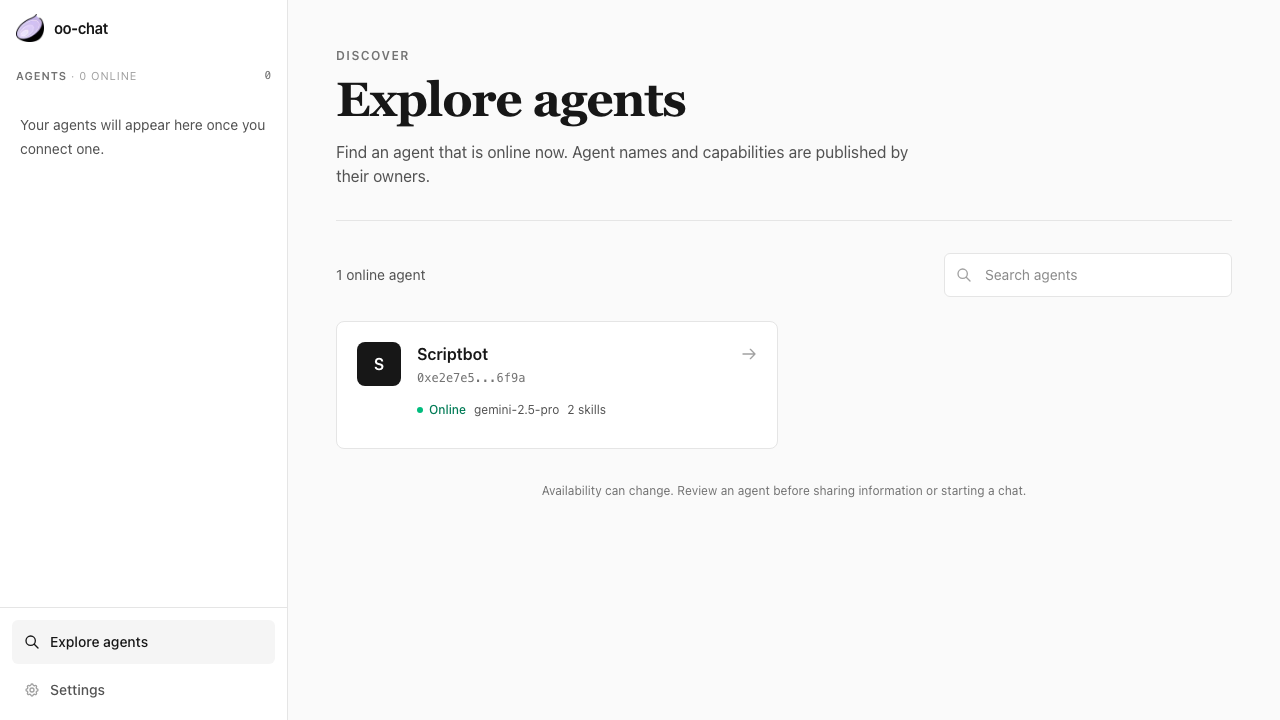
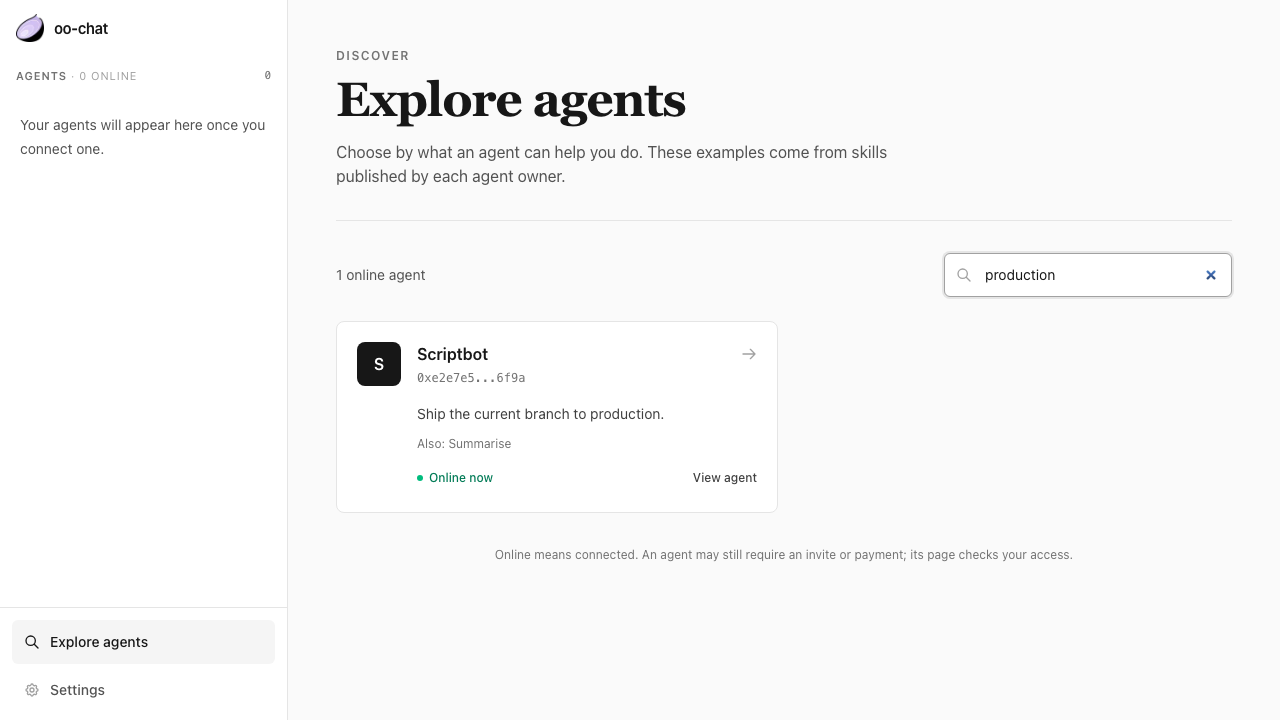
Show real agent tasks in discovery and landing

diff --git a/app/[address]/page.tsx b/app/[address]/page.tsx
@@ -12,7 +12,8 @@ import { useChatStore } from '@/store/chat-store'
 import { useIdentity } from '@/hooks/use-identity'
 import { useAgentInfo, shortAddress, agentInitial, isAgentAddress } from '@/hooks/use-agent-info'
 import { QrShare } from '@/components/qr-share'
-import { bestOffers, UNIVERSAL_OPENER, acceptsAttachments } from '@/components/chat/skill-offers'
+import { UNIVERSAL_OPENER, acceptsAttachments } from '@/components/chat/skill-offers'
+import { publicCapabilities } from '@/lib/agent-capabilities'
 import type { FileAttachment } from '@/components/chat/types'
 import { AgentAddress, TopUp } from '@/components/agent-address'
 
@@ -236,6 +237,7 @@ export default function AgentLandingPage() {
   const label = agentInfo?.name || shortAddress(address)
   const isOnline = agentInfo?.online
   const skills = agentInfo?.skills || []
+  const capabilities = publicCapabilities(skills)
   const tools = useMemo(() => agentInfo?.tools || [], [agentInfo?.tools])
 
   // Read the three fields out first. Reaching through `agentInfo` inside the memo
@@ -292,13 +294,13 @@ export default function AgentLandingPage() {
               and tools list is enough to trigger it, and what disappears is the avatar,
               the agent name and the online pill — the identity of the agent you are
               about to talk to. Safe alignment falls back to flex-start on overflow. */}
-          <div className="flex min-h-full flex-col justify-center-safe py-6 sm:py-10">
+          <div className="flex min-h-full flex-col justify-center-safe py-4 sm:py-10">
           <div className="mx-auto w-full max-w-xl px-5">
 
             {/* Hero */}
-            <div className="text-center mb-7">
+            <div className="mb-5 text-center sm:mb-7">
               {/* Online agents breathe — the live connection is the product */}
-              <div className={`reveal w-16 h-16 rounded-2xl bg-neutral-900 flex items-center justify-center mx-auto mb-4 shadow-sm ${isOnline ? 'breathe-live' : ''}`}>
+              <div className={`reveal mx-auto mb-3 flex h-12 w-12 items-center justify-center rounded-xl bg-neutral-900 shadow-sm sm:mb-4 sm:h-16 sm:w-16 sm:rounded-2xl ${isOnline ? 'breathe-live' : ''}`}>
                 <span className="text-white font-semibold text-2xl">
                   {agentInitial(label, address)}
                 </span>
@@ -326,7 +328,7 @@ export default function AgentLandingPage() {
               </div>
 
               {metaLine && (
-                <p className="font-mono text-xs leading-5 text-neutral-600">{metaLine}</p>
+                <p className="hidden font-mono text-xs leading-5 text-neutral-600 sm:block">{metaLine}</p>
               )}
 
               {isOnline === false && (
@@ -370,26 +372,44 @@ export default function AgentLandingPage() {
               </form>
             )}
 
-            {/* The handshake: a few things you can ask right now, in plain words */}
-            {isOnline !== false && !isClaudeStation && (
-              <div className="reveal flex flex-wrap justify-center gap-2" style={{ '--reveal-delay': '180ms' } as React.CSSProperties}>
-                {/* The universal opener leads, filled — agent-specific offers follow */}
-                <button
-                  onClick={() => begin(UNIVERSAL_OPENER)}
-                  className="rounded-full bg-neutral-900 px-4 py-2 text-sm font-medium text-white shadow-sm transition-all hover:-translate-y-0.5 hover:bg-neutral-800 active:translate-y-0"
-                >
-                  {UNIVERSAL_OPENER}
-                </button>
-                {bestOffers(skills).map(({ skill, offer }) => (
-                    <button
-                      key={skill.name}
-                      onClick={() => begin('/' + skill.name)}
-                      className="rounded-full border border-neutral-200 bg-white px-4 py-2 text-sm text-neutral-700 shadow-xs transition-all hover:-translate-y-0.5 hover:border-neutral-300 hover:shadow-sm active:translate-y-0"
-                    >
-                      {offer}
+            {!isClaudeStation && (
+              <section className="reveal mt-5 sm:mt-7" style={{ '--reveal-delay': '180ms' } as React.CSSProperties} aria-labelledby="agent-capabilities-heading">
+                <div className="mb-3 flex items-center justify-between gap-3">
+                  <h2 id="agent-capabilities-heading" className="text-base font-semibold text-neutral-900">What this agent can help with</h2>
+                  {capabilities.length > 0 && <span className="shrink-0 text-xs text-neutral-500">Owner-published</span>}
+                </div>
+                {capabilities.length > 0 ? (
+                  <div className="space-y-2">
+                    {capabilities.map(capability => (
+                      <button
+                        key={capability.name}
+                        type="button"
+                        disabled={isOnline === false}
+                        onClick={() => begin('/' + capability.name)}
+                        className="group flex min-h-20 w-full flex-col gap-1 rounded-xl border border-neutral-200 bg-white px-4 py-3 text-left transition-all hover:border-neutral-300 hover:shadow-sm focus-visible:outline-none focus-visible:ring-2 focus-visible:ring-neutral-500 disabled:cursor-not-allowed disabled:opacity-60"
+                      >
+                        <span className="flex w-full items-center justify-between gap-3">
+                          <span className="text-sm font-semibold text-neutral-900">{capability.title}</span>
+                          <span className="shrink-0 text-xs font-medium text-neutral-500 group-hover:text-neutral-900">Start →</span>
+                        </span>
+                        <span className="text-sm leading-5 text-neutral-600">{capability.summary}</span>
+                      </button>
+                    ))}
+                  </div>
+                ) : (
+                  <p className="rounded-xl border border-neutral-200 bg-white px-4 py-4 text-sm leading-6 text-neutral-600">
+                    This agent has not published any task examples yet. You can ask what it does before sharing details.
+                  </p>
+                )}
+                {isOnline !== false && (
+                  <div className="mt-4 flex items-center justify-center gap-3 text-sm text-neutral-600">
+                    <span>Not sure where to start?</span>
+                    <button onClick={() => begin(UNIVERSAL_OPENER)} className="min-h-11 font-medium text-neutral-900 underline decoration-neutral-300 underline-offset-4 hover:decoration-neutral-900">
+                      {UNIVERSAL_OPENER}
                     </button>
-                  ))}
-              </div>
+                  </div>
+                )}
+              </section>
             )}
 
 

diff --git a/app/explore/page.tsx b/app/explore/page.tsx
@@ -5,12 +5,14 @@ import Link from 'next/link'
 import { HiOutlineArrowRight, HiOutlineRefresh, HiOutlineSearch } from 'react-icons/hi'
 import { ChatLayout } from '@/components/chat-layout'
 import { agentInitial, shortAddress } from '@/hooks/use-agent-info'
+import type { PublicCapability } from '@/lib/agent-capabilities'
 
 type ListedAgent = {
   address: string
   name: string | null
   model: string | null
   skillCount: number
+  capabilities: PublicCapability[]
 }
 
 async function fetchOnlineAgents(): Promise<ListedAgent[]> {
@@ -54,6 +56,10 @@ export default function ExplorePage() {
       agent.address.toLocaleLowerCase().includes(term)
       || (agent.name || '').toLocaleLowerCase().includes(term)
       || (agent.model || '').toLocaleLowerCase().includes(term)
+      || agent.capabilities.some(capability =>
+        capability.title.toLocaleLowerCase().includes(term)
+        || capability.summary.toLocaleLowerCase().includes(term)
+      )
     )
   }, [agents, query])
 
@@ -65,7 +71,7 @@ export default function ExplorePage() {
             <div className="mb-3 text-xs font-semibold uppercase tracking-[0.12em] text-neutral-500">Discover</div>
             <h1 className="font-serif text-4xl font-semibold tracking-tight text-neutral-900 sm:text-5xl">Explore agents</h1>
             <p className="mt-4 max-w-xl text-sm leading-6 text-neutral-600 sm:text-base">
-              Find an agent that is online now. Agent names and capabilities are published by their owners.
+              Choose by what an agent can help you do. These examples come from skills published by each agent owner.
             </p>
           </div>
 
@@ -80,7 +86,7 @@ export default function ExplorePage() {
                   type="search"
                   value={query}
                   onChange={event => setQuery(event.target.value)}
-                  placeholder="Search agents"
+                  placeholder="Search tasks or agents"
                   className="min-h-11 w-full rounded-lg border border-neutral-200 bg-white pl-10 pr-3 text-sm text-neutral-900 outline-none focus:border-neutral-400 focus:ring-2 focus:ring-neutral-200"
                 />
               </div>
@@ -112,7 +118,7 @@ export default function ExplorePage() {
                   <Link
                     key={agent.address}
                     href={`/${agent.address}`}
-                    className="group flex min-h-32 gap-4 rounded-xl border border-neutral-200 bg-white p-5 transition-all hover:-translate-y-0.5 hover:border-neutral-300 hover:shadow-md focus-visible:outline-none focus-visible:ring-2 focus-visible:ring-neutral-500"
+                    className="group flex min-h-48 gap-4 rounded-xl border border-neutral-200 bg-white p-5 transition-all hover:-translate-y-0.5 hover:border-neutral-300 hover:shadow-md focus-visible:outline-none focus-visible:ring-2 focus-visible:ring-neutral-500"
                   >
                     <span className="flex h-11 w-11 shrink-0 items-center justify-center rounded-xl bg-neutral-900 text-base font-semibold text-white">{agentInitial(label, agent.address)}</span>
                     <span className="min-w-0 flex-1">
@@ -121,10 +127,15 @@ export default function ExplorePage() {
                         <HiOutlineArrowRight aria-hidden="true" className="mt-1 h-4 w-4 shrink-0 text-neutral-400 transition-transform group-hover:translate-x-1 group-hover:text-neutral-900" />
                       </span>
                       <span className="mt-1 block font-mono text-xs text-neutral-500">{shortAddress(agent.address)}</span>
-                      <span className="mt-4 flex flex-wrap items-center gap-2 text-xs text-neutral-600">
-                        <span className="inline-flex items-center gap-1.5 font-medium text-emerald-700"><span aria-hidden="true" className="h-1.5 w-1.5 rounded-full bg-emerald-500" />Online</span>
-                        {agent.model && <span className="truncate">{agent.model}</span>}
-                        {agent.skillCount > 0 && <span>{agent.skillCount} {agent.skillCount === 1 ? 'skill' : 'skills'}</span>}
+                      <span className="mt-4 block text-sm leading-6 text-neutral-700">
+                        {agent.capabilities[0]?.summary || 'No public capability description yet. Open this agent to ask what it can do.'}
+                      </span>
+                      {agent.capabilities[1] && (
+                        <span className="mt-2 block text-xs leading-5 text-neutral-500">Also: {agent.capabilities[1].title}</span>
+                      )}
+                      <span className="mt-4 flex items-center justify-between gap-3 text-xs">
+                        <span className="inline-flex items-center gap-1.5 font-medium text-emerald-700"><span aria-hidden="true" className="h-1.5 w-1.5 rounded-full bg-emerald-500" />Online now</span>
+                        <span className="font-medium text-neutral-700 group-hover:text-neutral-900">View agent</span>
                       </span>
                     </span>
                   </Link>
@@ -132,7 +143,7 @@ export default function ExplorePage() {
               })}
             </div>
           )}
-          <p className="mt-8 text-center text-xs leading-5 text-neutral-500">Availability can change. Review an agent before sharing information or starting a chat.</p>
+          <p className="mt-8 text-center text-xs leading-5 text-neutral-500">Online means connected. An agent may still require an invite or payment; its page checks your access.</p>
         </div>
       </main>
     </ChatLayout>

diff --git a/app/api/agents/online/route.ts b/app/api/agents/online/route.ts
@@ -1,4 +1,5 @@
 import { NextResponse } from 'next/server'
+import { publicCapabilities } from '../../../../lib/agent-capabilities'
 
 const API_URL = process.env.NEXT_PUBLIC_OPENONION_API_URL || 'https://oo.openonion.ai'
 
@@ -15,8 +16,8 @@ export async function GET() {
       throw new Error('Invalid directory response')
     }
 
-    // The relay also returns endpoints and raw tool/skill descriptions. Explore
-    // only needs a small public display profile, so do not pass those through.
+    // The relay also returns endpoints and the full raw tool/skill inventory.
+    // Project a small set of described, user-facing capabilities for discovery.
     const agents = data.agents.flatMap((entry: unknown) => {
       if (!entry || typeof entry !== 'object' || !('address' in entry)) return []
       const item = entry as { address: unknown; profile?: unknown }
@@ -32,8 +33,16 @@ export async function GET() {
         ? profile.model.trim().slice(0, 60)
         : null
       const skillCount = Array.isArray(profile.skills) ? profile.skills.length : 0
-      return [{ address: item.address, name, model, skillCount }]
+      const capabilities = publicCapabilities(profile.skills, 2)
+      return [{ address: item.address, name, model, skillCount, capabilities }]
     })
+
+    // A complete public profile gives a visitor a real reason to choose an agent.
+    // Keep undescribed agents reachable, but place them after described ones.
+    agents.sort((a, b) =>
+      Number(b.capabilities.length > 0) - Number(a.capabilities.length > 0)
+      || (a.name || a.address).localeCompare(b.name || b.address)
+    )
 
     return NextResponse.json({ agents }, { headers: { 'Cache-Control': 'no-store' } })
   } catch {

diff --git a/e2e/chat.spec.ts b/e2e/chat.spec.ts
@@ -30,6 +30,16 @@ async function landing(page: Page, scenario: Parameters<typeof mockAgent>[1] = '
 }
 
 test.describe('agent landing page', () => {
+  test('shows published work before a visitor starts a task', async ({ page }) => {
+    await landing(page)
+    const main = page.getByRole('main')
+    await expect(main.getByRole('heading', { name: 'What this agent can help with' })).toBeVisible()
+    await expect(main.getByText('Ship the current branch to production')).toBeVisible()
+    await main.getByRole('button', { name: /Deploy.*Start.*Ship the current branch to production/ }).click()
+    await expect(page).toHaveURL(new RegExp(`${AGENT_ADDRESS}/.+`))
+    await expect(page.getByText('You said: /deploy')).toBeVisible({ timeout: 15_000 })
+  })
+
   test('shows who the agent is, its address, and how to pay it', async ({ page }) => {
     await landing(page)
 
@@ -161,6 +171,15 @@ test.describe('a full exchange', () => {
 
 test.describe('phone', () => {
   test.use({ viewport: { width: 375, height: 667 } })
+
+  test('published task descriptions remain readable before chatting', async ({ page, shot }) => {
+    await landing(page)
+    const main = page.getByRole('main')
+    await expect(main.getByRole('heading', { name: 'What this agent can help with' })).toBeVisible()
+    await expect(main.getByText('Ship the current branch to production')).toBeVisible()
+    expect(await page.evaluate(() => document.documentElement.scrollWidth)).toBeLessThanOrEqual(375)
+    await shot('landing-capabilities')
+  })
 
   test('nothing overflows the viewport at 375px', async ({ page }) => {
     await landing(page, 'approval')

diff --git a/lib/agent-capabilities.ts b/lib/agent-capabilities.ts
@@ -1,0 +1,40 @@
+export type PublicCapability = {
+  name: string
+  title: string
+  summary: string
+}
+
+const INTERNAL = /debug|capture|not for direct|called by other skills|internal/i
+const SETUP_SKILL = /(?:^|[-_])(?:login|auth|setup)(?:$|[-_])/i
+
+/** Present only described, user-facing skills from an owner-published profile. */
+export function publicCapabilities(skills: unknown, limit = 3): PublicCapability[] {
+  if (!Array.isArray(skills)) return []
+  const seen = new Set<string>()
+  const result: PublicCapability[] = []
+
+  for (const item of skills) {
+    if (!item || typeof item !== 'object') continue
+    const { name, description } = item as { name?: unknown; description?: unknown }
+    if (typeof name !== 'string' || typeof description !== 'string') continue
+    const cleanName = name.trim()
+    const cleanDescription = description.replace(/\s+/g, ' ').trim()
+    if (!/^[\w-]{2,80}$/.test(cleanName) || !cleanDescription ||
+      INTERNAL.test(cleanName) || INTERNAL.test(cleanDescription) ||
+      SETUP_SKILL.test(cleanName) || seen.has(cleanName)) continue
+
+    const sentence = cleanDescription.match(/^.+?[.!?。！？](?=\s|$|[\u4e00-\u9fff])/)?.[0] || cleanDescription
+    const summary = sentence.length > 150
+      ? `${sentence.slice(0, 147).replace(/\s+\S*$/, '')}…`
+      : sentence
+    result.push({
+      name: cleanName,
+      title: cleanName.replace(/[-_]+/g, ' ').replace(/\b\w/g, char => char.toUpperCase()).replace(/\bAi\b/g, 'AI'),
+      summary,
+    })
+    seen.add(cleanName)
+    if (result.length >= limit) break
+  }
+
+  return result
+}

diff --git a/lib/agent-capabilities.test.ts b/lib/agent-capabilities.test.ts
@@ -1,0 +1,25 @@
+import { expect, test } from 'vitest'
+import { publicCapabilities } from './agent-capabilities'
+
+test('shows concrete published work while excluding internal or undescribed skills', () => {
+  expect(publicCapabilities([
+    { name: 'debug_dump', description: 'Internal state' },
+    { name: 'linkedin-login', description: 'Collect credentials for a browser session.' },
+    { name: 'discover-sydney-events', description: 'Discover and verify public events in Greater Sydney. Use this for finding new events.' },
+    { name: 'empty', description: '' },
+    { name: 'triage_inbox', description: 'Review inbox messages and summarize action items.' },
+  ])).toEqual([
+    { name: 'discover-sydney-events', title: 'Discover Sydney Events', summary: 'Discover and verify public events in Greater Sydney.' },
+    { name: 'triage_inbox', title: 'Triage Inbox', summary: 'Review inbox messages and summarize action items.' },
+  ])
+})
+
+test('an absent profile makes no capability claim', () => {
+  expect(publicCapabilities(null)).toEqual([])
+  expect(publicCapabilities([{ name: 'unnamed' }])).toEqual([])
+})
+
+test('Chinese descriptions stop after the first concrete sentence', () => {
+  expect(publicCapabilities([{ name: 'house-overview', description: '查看房源资料和近期经营指标，生成运营简报。用于查看最新情况。' }]))
+    .toEqual([{ name: 'house-overview', title: 'House Overview', summary: '查看房源资料和近期经营指标，生成运营简报。' }])
+})

diff --git a/e2e/explore.spec.ts b/e2e/explore.spec.ts
@@ -6,6 +6,10 @@ const listed = {
   name: 'Scriptbot',
   model: 'gemini-2.5-pro',
   skillCount: 2,
+  capabilities: [
+    { name: 'deploy', title: 'Deploy', summary: 'Ship the current branch to production.' },
+    { name: 'summarise', title: 'Summarise', summary: 'Summarise a document you paste in.' },
+  ],
 }
 
 test('a new visitor can discover an online agent and open its page', async ({ page, shot }) => {
@@ -21,6 +25,9 @@ test('a new visitor can discover an online agent and open its page', async ({ pa
   await page.getByRole('link', { name: 'Explore online agents' }).click()
   await expect(page.getByRole('heading', { name: 'Explore agents' })).toBeVisible()
   await expect(page.getByText('1 online agent')).toBeVisible()
+  await expect(page.locator('main').getByText('Ship the current branch to production.')).toBeVisible()
+  await page.getByRole('searchbox', { name: 'Search online agents' }).fill('production')
+  await expect(page.locator('main').getByRole('link', { name: /Scriptbot/ })).toBeVisible()
   await shot('explore-list')
 
   await page.locator('main').getByRole('link', { name: /Scriptbot/ }).click()

diff --git a/app/api/agents/online/route.test.ts b/app/api/agents/online/route.test.ts
@@ -7,7 +7,10 @@ test('online discovery exposes display fields without relay endpoints or raw ski
   vi.stubGlobal('fetch', vi.fn(async () => Response.json({ agents: [{
     address: `0x${'a'.repeat(64)}`,
     endpoints: ['ws://private-host'],
-    profile: { alias: 'A public agent', model: 'model-x', skills: [{ description: 'private detail' }] },
+    profile: { alias: 'A public agent', model: 'model-x', skills: [
+      { name: 'analyze-files', description: 'Analyze uploaded documents and explain key findings. Use this for reports.' },
+      { name: 'debug_dump', description: 'Internal state' },
+    ] },
   }, { address: 'malformed', profile: { alias: 'Ignore' } }] })))
 
   const response = await GET()
@@ -16,7 +19,8 @@ test('online discovery exposes display fields without relay endpoints or raw ski
     address: `0x${'a'.repeat(64)}`,
     name: 'A public agent',
     model: 'model-x',
-    skillCount: 1,
+    skillCount: 2,
+    capabilities: [{ name: 'analyze-files', title: 'Analyze Files', summary: 'Analyze uploaded documents and explain key findings.' }],
   }] })
 })
 
